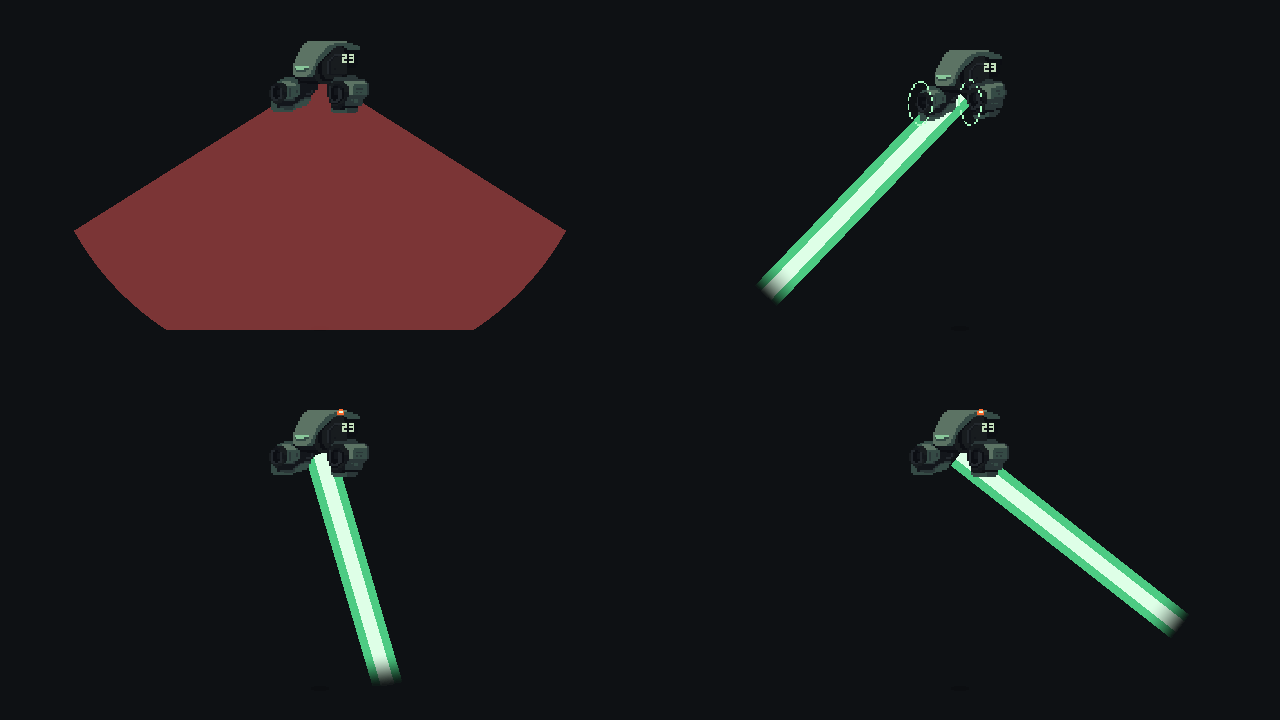
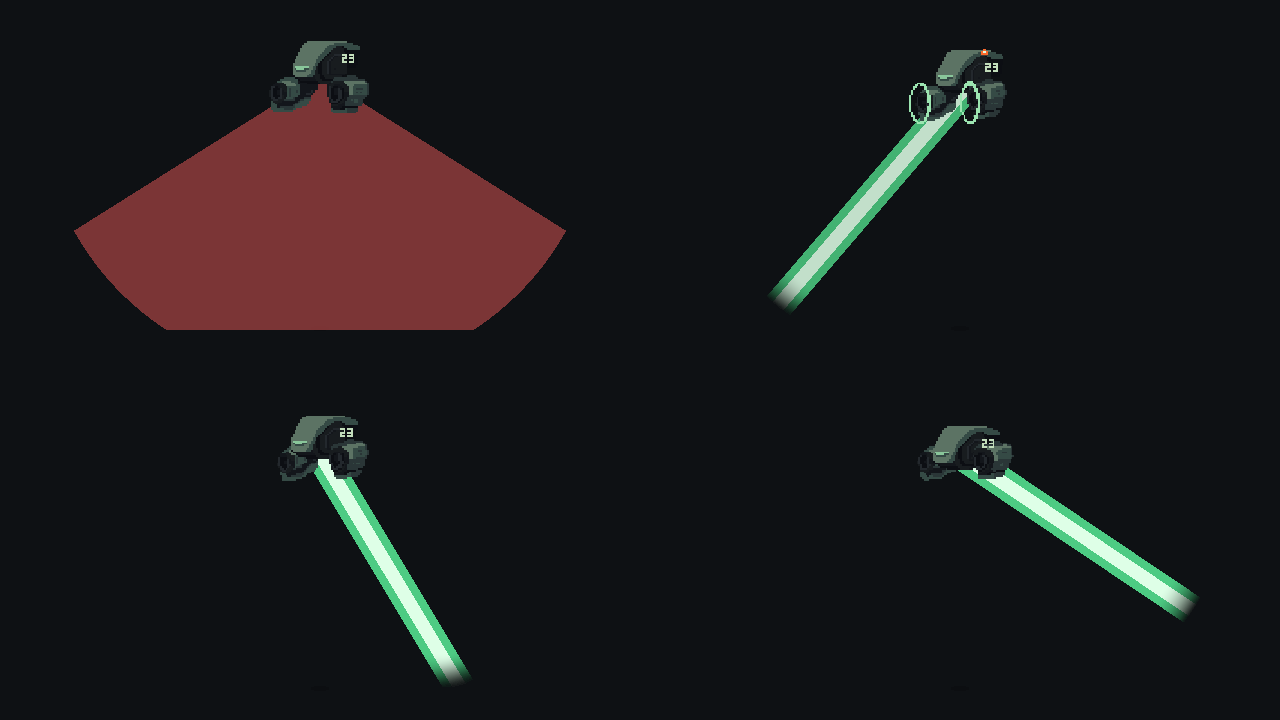
fix: Enemy23

Changed region(s): [[0.2188, 0.55, 0.375, 0.9472], [0.7188, 0.55, 0.9375, 0.8861], [0.5938, 0.0611, 0.7812, 0.4278]]

diff --git a/Tools~/CTJ/VerifyBoss23FanLaser.cs b/Tools~/CTJ/VerifyBoss23FanLaser.cs
@@ -52,6 +52,7 @@ public static class VerifyBoss23FanLaser
         Check(markings == 10, "Missing animated marking tracks");
         return new { markings, shaderErrors = false, warningValid = true, bodyOrder = body.sortingOrder, beamOrder = beam.sortingOrder,
             width = laser.FindProperty("width").floatValue, maxSpeed = laser.FindProperty("maxSpeed").floatValue,
+            bodyOverlapDistance = laser.FindProperty("bodyOverlapDistance").floatValue,
             minSpeed = laser.FindProperty("minSpeed").floatValue, fadeOut = laser.FindProperty("fadeOutDuration").floatValue,
             shakeAmplitude = new SerializedObject(shake).FindProperty("amplitude").floatValue, prefabActive = root.activeSelf,
             prefabScale = root.transform.localScale.ToString() };
@@ -59,8 +60,9 @@ public static class VerifyBoss23FanLaser
 
     public static object Enter()
     {
-        Check(!EditorApplication.isPlaying && !EditorApplication.isCompiling && !SceneManager.GetActiveScene().isDirty &&
-            SceneManager.GetActiveScene().path == "Assets/_Scenes/Test/EnemyTestScene.unity", "Use saved EnemyTestScene in Edit Mode");
+        // 씬 전환이나 저장 없이 현재 편집 상태의 Play Mode 사본에서만 테스트합니다.
+        Check(!EditorApplication.isPlaying && !EditorApplication.isCompiling &&
+            SceneManager.GetActiveScene().path == "Assets/_Scenes/Test/EnemyTestScene.unity", "Use EnemyTestScene in Edit Mode");
         EditorApplication.EnterPlaymode();
         return "Starting fan laser verification";
     }
@@ -95,7 +97,7 @@ public static class VerifyBoss23FanLaser
         object gradient = null;
         try
         {
-            for (int scenario = 0; scenario < 6; scenario++)
+            for (int scenario = 0; scenario < 7; scenario++)
             {
                 player = new GameObject("Fan laser player probe");
                 var body = player.AddComponent<BoxCollider2D>();
@@ -103,7 +105,7 @@ public static class VerifyBoss23FanLaser
                 var probe = player.AddComponent<EnemyDamageProbe>();
                 player.transform.position = Vector3.right * (scenario == 0 ? -7.5f : scenario == 1 ? 7.5f : 0f);
                 root = Object.Instantiate(prefab, Vector3.up * 1.05f, Quaternion.identity);
-                root.SetActive(true); // The user's prefab is intentionally disabled.
+                root.SetActive(true); // 검증 인스턴스만 활성화하며 원본 프리팹의 활성 여부는 보존합니다.
                 var boss = root.GetComponent<ProductionControlDrone>();
                 var laser = root.GetComponentInChildren<DroneDownwardLaserSkill>();
                 var shake = laser.GetComponent<BossLaserShake>();
@@ -141,6 +143,13 @@ public static class VerifyBoss23FanLaser
                 Check(points.All(p => p.x >= safeLeft - 0.001f && p.x <= safeRight + 0.001f && p.y >= arena.FloorY - 0.001f),
                     "Warning enters safe strips or below floor");
                 Vector2 origin = (Vector2)typeof(DroneDownwardLaserSkill).GetField("_origin", Private).GetValue(laser);
+                float overlap = (float)typeof(DroneDownwardLaserSkill).GetField("_bodyOverlap", Private).GetValue(laser);
+                if (scenario == 6)
+                {
+                    body.size = new Vector2(0.2f, 0.2f); body.offset = Vector2.zero;
+                    player.transform.position = origin + Vector2.down * 0.15f;
+                    Physics2D.SyncTransforms();
+                }
                 if (scenario == 0) Capture(camera, sheet, 0);
                 object motion = CheckMotion(laser, beam);
                 await Until(() => beam.enabled, 2f);
@@ -156,10 +165,11 @@ public static class VerifyBoss23FanLaser
                     Vector2 direction = new Vector2(Mathf.Sin(-10f * Mathf.Deg2Rad), -Mathf.Cos(-10f * Mathf.Deg2Rad));
                     player.transform.position = origin + direction * 3f - Vector2.up * 0.675f;
                     Physics2D.SyncTransforms();
-                    typeof(DroneDownwardLaserSkill).GetField("_beamStartedAt", Private).SetValue(laser, Time.time - 0.8f);
+                    float skip = duration * 0.65f;
+                    typeof(DroneDownwardLaserSkill).GetField("_beamStartedAt", Private).SetValue(laser, Time.time - skip);
                     laser.UpdateSkill();
                     Check(probe.ReceivedHitCount == 1, "Angular sweep skipped a target on a late frame");
-                    startedAt = Time.time - 0.8f;
+                    startedAt = Time.time - skip;
                 }
                 if (scenario == 5)
                 {
@@ -201,15 +211,23 @@ public static class VerifyBoss23FanLaser
                         var block = new MaterialPropertyBlock(); beam.GetPropertyBlock(block);
                         Vector2 locked = block.GetVector("_BeamOrigin");
                         Check(Vector2.Distance(locked, origin) < 0.001f, "Laser pivot followed the player");
+                        Vector2 direction = block.GetVector("_BeamDirection");
+                        Vector2 start = beam.transform.TransformPoint(new Vector3(sprite.center.x, sprite.max.y));
+                        Vector2 end = beam.transform.TransformPoint(new Vector3(sprite.center.x, sprite.min.y));
+                        float fullLength = block.GetFloat("_BeamLength");
+                        Check(Mathf.Abs(Vector2.Dot(start - origin, direction) + overlap) < 0.001f,
+                            "Laser root does not overlap the body by configured world distance");
+                        Check(Mathf.Abs(Vector2.Dot(end - origin, direction) - fullLength) < 0.001f,
+                            "Body overlap changed laser reach");
                         float expectedWidth = scenario == 4 ? 1.4f : 0.8f;
                         Check(Mathf.Abs(beam.transform.TransformVector(Vector3.right * beam.sprite.bounds.size.x).magnitude - expectedWidth) < 0.001f,
                             "Beam world width differs from configured width");
                         if (scenario == 0)
                         {
                             float elapsed = Time.time - firedAt;
-                            if (!leftCapture && elapsed >= 0.1f) { Capture(camera, sheet, 1); leftCapture = true; }
-                            if (!centerCapture && elapsed >= 0.6f) { Capture(camera, sheet, 2); centerCapture = true; }
-                            if (!rightCapture && elapsed >= 1.1f) { Capture(camera, sheet, 3); rightCapture = true; }
+                            if (!leftCapture && elapsed >= duration * 0.08f) { Capture(camera, sheet, 1); leftCapture = true; }
+                            if (!centerCapture && elapsed >= duration * 0.5f) { Capture(camera, sheet, 2); centerCapture = true; }
+                            if (!rightCapture && elapsed >= duration * 0.9f) { Capture(camera, sheet, 3); rightCapture = true; }
                         }
                     }
                     await Awaitable.NextFrameAsync();
@@ -293,7 +311,8 @@ public static class VerifyBoss23FanLaser
             beam.gameObject.layer = 30; beam.enabled = true;
             camera.cullingMask = 1 << 30; camera.backgroundColor = Color.clear;
             camera.orthographicSize = 4.5f; camera.transform.position = new Vector3(origin.x, (origin.y + floor) * 0.5f, -10f);
-            typeof(DroneDownwardLaserSkill).GetMethod("UpdateBeam", Private).Invoke(laser, new object[] { 0f, 0.4f });
+            float duration = (float)typeof(DroneDownwardLaserSkill).GetField("_sweepDuration", Private).GetValue(laser);
+            typeof(DroneDownwardLaserSkill).GetMethod("UpdateBeam", Private).Invoke(laser, new object[] { 0f, duration * 0.5f });
             camera.targetTexture = rt; camera.Render(); RenderTexture.active = rt;
             texture.ReadPixels(new Rect(0, 0, 512, 512), 0, 0); texture.Apply();
             float near = Alpha(new Vector2(origin.x, floor + 0.1f));

diff --git a/Assets/_Scripts/Agent/Enemies/Skills/DroneDownwardLaserSkill.cs b/Assets/_Scripts/Agent/Enemies/Skills/DroneDownwardLaserSkill.cs
@@ -17,13 +17,15 @@ namespace _Scripts.Agent.Enemies.Skills
         [SerializeField, Min(0.1f)] private float length = 7.5f;
         [Tooltip("월드 유닛 기준 전체 두께입니다. 빔 표시, 경고, 피해 판정에 함께 적용됩니다.")]
         [SerializeField, Min(0.1f)] private float width = 0.8f;
+        [Tooltip("빔 표시만 원점 뒤로 연장해 몸체 안에 겹치는 거리입니다. 월드 유닛이며 피해 판정과 끝점은 유지합니다.")]
+        [SerializeField, Min(0f)] private float bodyOverlapDistance = 0.35f;
         [SerializeField, Min(0f)] private float damage = 18f;
         [Tooltip("발사 시작 시 회전 속도입니다. 도/초 단위이며 Min Speed까지 부드럽게 감속합니다.")]
-        [SerializeField, Min(0.01f)] private float maxSpeed = 140f;
+        [SerializeField, Min(0.01f)] private float maxSpeed = 600f;
         [Tooltip("회전이 끝날 때의 속도입니다. 도/초 단위이며 전체 회전 시간은 두 속도로 계산합니다.")]
         [SerializeField, Min(0.01f)] private float minSpeed = 50f;
         [Tooltip("회전을 끝낸 뒤 빔이 사라지는 시간입니다. 이 구간에는 추가 피해를 주지 않습니다.")]
-        [SerializeField, Min(0f)] private float fadeOutDuration = 0.08f;
+        [SerializeField, Min(0f)] private float fadeOutDuration = 0.14f;
         [Tooltip("수직 아래에서 좌우로 각각 회전할 각도입니다. 안전 폭을 지키도록 필요하면 줄입니다.")]
         [SerializeField, Range(0f, 85f)] private float sweepHalfAngle = 60f;
         [Tooltip("아레나 양 끝에 남겨 둘 안전 폭입니다. 레이저 두께까지 포함해 보호합니다.")]
@@ -45,7 +47,7 @@ namespace _Scripts.Agent.Enemies.Skills
         private MaterialPropertyBlock _beamProperties;
         private ContactFilter2D _terrainFilter;
         private Vector2 _origin;
-        private float _floorY, _safeLeft, _safeRight, _halfAngle, _radius, _beamWidth;
+        private float _floorY, _safeLeft, _safeRight, _halfAngle, _radius, _beamWidth, _bodyOverlap;
         private Bounds _warningBounds;
         private bool _didHit;
         private float _beamStartedAt, _previousAngle;
@@ -89,6 +91,7 @@ namespace _Scripts.Agent.Enemies.Skills
             _safeRight = drone.Arena.LaserRight.x - Mathf.Max(0f, safeEdgeWidth);
             _radius = Mathf.Max(0.1f, length);
             _beamWidth = Mathf.Max(0.1f, width);
+            _bodyOverlap = Mathf.Max(0f, bodyOverlapDistance);
             float reach = Mathf.Max(0f, Mathf.Min(_origin.x - _safeLeft, _safeRight - _origin.x) - _beamWidth * 0.5f);
             float safeAngle = Mathf.Asin(Mathf.Clamp01(reach / _radius)) * Mathf.Rad2Deg;
             _halfAngle = Mathf.Min(Mathf.Clamp(sweepHalfAngle, 0f, 85f), safeAngle);
@@ -189,11 +192,12 @@ namespace _Scripts.Agent.Enemies.Skills
         {
             Vector2 direction = Direction(angle);
             float distance = BeamLength(direction);
-            beam.transform.position = _origin + direction * (distance * 0.5f);
+            // 시작부만 몸체 안으로 연장합니다. 회전 원점과 바닥 쪽 끝점은 그대로 둡니다.
+            beam.transform.position = _origin + direction * ((distance - _bodyOverlap) * 0.5f);
             beam.transform.rotation = Quaternion.Euler(0f, 0f, angle);
             Vector3 parentScale = beam.transform.parent != null ? beam.transform.parent.lossyScale : Vector3.one;
             beam.transform.localScale = new Vector3(_beamWidth / beam.sprite.bounds.size.x / Mathf.Max(0.0001f, Mathf.Abs(parentScale.x)),
-                distance / beam.sprite.bounds.size.y / Mathf.Max(0.0001f, Mathf.Abs(parentScale.y)), 1f);
+                (distance + _bodyOverlap) / beam.sprite.bounds.size.y / Mathf.Max(0.0001f, Mathf.Abs(parentScale.y)), 1f);
             Color tint = beam.color;
             float fade = elapsed <= _sweepDuration ? 1f : fadeOutDuration <= 0f ? 0f :
                 1f - Mathf.SmoothStep(0f, 1f, (elapsed - _sweepDuration) / fadeOutDuration);
@@ -232,7 +236,8 @@ namespace _Scripts.Agent.Enemies.Skills
             {
                 Vector2 direction = Direction(Mathf.Lerp(-_halfAngle, _halfAngle, i / (float)WarningSegments));
                 Vector2 side = new Vector2(-direction.y, direction.x) * (_beamWidth * 0.5f);
-                Vector2 end = _origin + direction * BeamLength(direction);
+                float distance = BeamLength(direction);
+                Vector2 end = _origin + direction * distance;
                 _warningCloud.Add(_origin + side); _warningCloud.Add(_origin - side);
                 _warningCloud.Add(end + side); _warningCloud.Add(end - side);
             }

diff --git a/Tools~/CTJ/InspectBoss23LaserRoot.cs b/Tools~/CTJ/InspectBoss23LaserRoot.cs
@@ -1,0 +1,75 @@
+using System;
+using System.Linq;
+using System.Reflection;
+using _Scripts.Agent.Enemies.Skills;
+using UnityEditor;
+using UnityEngine;
+using Object = UnityEngine.Object;
+
+public static class InspectBoss23LaserRoot
+{
+    private const BindingFlags Private = BindingFlags.Instance | BindingFlags.NonPublic;
+    public static object Run()
+    {
+        if (EditorApplication.isPlaying || EditorApplication.isCompiling) throw new Exception("Use Edit Mode");
+        var root = PrefabUtility.LoadPrefabContents("Assets/_Prefabs/Enemies/Bosses/Enemy23/Boss23_ProductionControlDrone.prefab");
+        var cameraRoot = new GameObject("Laser root preview camera");
+        var sheet = new Texture2D(1536, 1536, TextureFormat.RGBA32, false);
+        try
+        {
+            root.SetActive(true);
+            UnityEngine.SceneManagement.SceneManager.MoveGameObjectToScene(cameraRoot, root.scene);
+            var camera = cameraRoot.AddComponent<Camera>();
+            camera.enabled = false; camera.scene = root.scene;
+            camera.orthographic = true; camera.orthographicSize = 1.6f;
+            camera.transform.position = new Vector3(0f, -0.15f, -10f);
+            camera.clearFlags = CameraClearFlags.SolidColor; camera.backgroundColor = new Color(0.055f, 0.065f, 0.08f, 0f);
+            var animator = root.GetComponentInChildren<Animator>(true);
+            var clip = animator.runtimeAnimatorController.animationClips.Single(c => c.name.EndsWith("_Laser"));
+            var laser = root.GetComponentInChildren<DroneDownwardLaserSkill>(true);
+            var data = new SerializedObject(laser);
+            var beam = (SpriteRenderer)data.FindProperty("beam").objectReferenceValue;
+            var muzzle = (Transform)data.FindProperty("muzzle").objectReferenceValue;
+            Set("_origin", (Vector2)muzzle.position); Set("_floorY", -6.5f);
+            Set("_radius", 7.5f); Set("_beamWidth", data.FindProperty("width").floatValue);
+            Set("_bodyOverlap", data.FindProperty("bodyOverlapDistance").floatValue);
+            Set("_beamProperties", new MaterialPropertyBlock()); Set("_sweepDuration", 1f);
+            beam.enabled = true;
+            var update = typeof(DroneDownwardLaserSkill).GetMethod("UpdateBeam", Private);
+            float[] angles = { -57.85f, 0f, 57.85f };
+            float minConnectionAlpha = 1f;
+            for (int row = 0; row < 3; row++)
+            {
+                clip.SampleAnimation(animator.gameObject, clip.length * row * 0.5f);
+                for (int i = 0; i < angles.Length; i++)
+                {
+                    update.Invoke(laser, new object[] { angles[i], 0.4f });
+                    var rt = RenderTexture.GetTemporary(512, 512, 24, RenderTextureFormat.ARGB32);
+                    var previous = RenderTexture.active;
+                    try
+                    {
+                        camera.targetTexture = rt; camera.Render(); RenderTexture.active = rt;
+                        sheet.ReadPixels(new Rect(0, 0, 512, 512), i * 512, (2 - row) * 512); sheet.Apply();
+                        float radians = angles[i] * Mathf.Deg2Rad;
+                        Vector2 direction = new Vector2(Mathf.Sin(radians), -Mathf.Cos(radians));
+                        for (int sample = 0; sample <= 40; sample++)
+                        {
+                            Vector3 world = muzzle.position + (Vector3)(direction * (sample * 0.025f));
+                            Vector3 uv = camera.WorldToViewportPoint(world);
+                            float alpha = sheet.GetPixel(i * 512 + Mathf.Clamp((int)(uv.x * 512), 0, 511),
+                                (2 - row) * 512 + Mathf.Clamp((int)(uv.y * 512), 0, 511)).a;
+                            minConnectionAlpha = Mathf.Min(minConnectionAlpha, alpha);
+                        }
+                    }
+                    finally { camera.targetTexture = null; RenderTexture.active = previous; RenderTexture.ReleaseTemporary(rt); }
+                }
+            }
+            if (minConnectionAlpha < 0.8f) throw new Exception("Transparent gap in body/laser connection: " + minConnectionAlpha);
+            string path = "Tools~/CTJ/Boss23LaserRootPreview.png";
+            System.IO.File.WriteAllBytes(path, sheet.EncodeToPNG());
+            return new { preview = path, muzzle = muzzle.position.ToString(), frames = 3, angles = 3, minConnectionAlpha };
+            void Set(string field, object value) => typeof(DroneDownwardLaserSkill).GetField(field, Private).SetValue(laser, value);
+        }
+        finally { Object.DestroyImmediate(cameraRoot); Object.DestroyImmediate(sheet); PrefabUtility.UnloadPrefabContents(root); }
+    }
+}

diff --git a/Tools~/CTJ/SetupBoss23FanLaser.cs b/Tools~/CTJ/SetupBoss23FanLaser.cs
@@ -56,9 +56,10 @@ public static class SetupBoss23FanLaser
             var laser = root.GetComponentInChildren<DroneDownwardLaserSkill>(true);
             var laserData = new SerializedObject(laser);
             laserData.FindProperty("length").floatValue = 7.5f;
-            laserData.FindProperty("maxSpeed").floatValue = 140f;
+            laserData.FindProperty("maxSpeed").floatValue = 600f;
+            laserData.FindProperty("bodyOverlapDistance").floatValue = 0.35f;
             laserData.FindProperty("minSpeed").floatValue = 50f;
-            laserData.FindProperty("fadeOutDuration").floatValue = 0.08f;
+            laserData.FindProperty("fadeOutDuration").floatValue = 0.14f;
             laserData.FindProperty("sweepHalfAngle").floatValue = 60f;
             laserData.FindProperty("safeEdgeWidth").floatValue = 1.25f;
             laserData.FindProperty("endFadeDistance").floatValue = 1f;

diff --git a/Tools~/CTJ/Boss23Notes.md b/Tools~/CTJ/Boss23Notes.md
@@ -7,7 +7,7 @@
 | 패턴 | 공격 | 준비 / 쿨타임 / 후딜 |
 |---|---|---|
 | 초반 수평 사격 | 8유닛 범위, 일반탄 14 피해 1발과 고속탄 8 피해 3발 교대 | 0.55초 / 마지막 탄 발사 후 2.4초 / 사격 모션 종료 후 Idle에서 0.8초 |
-| 후반 부채꼴 레이저 | 중앙의 높은 위치에서 최대 길이 7.5유닛·폭 0.8유닛의 한 줄이 140→50도/초로 감속 회전. 한 번 18 피해 | 0.9초 준비 / 약 1.218초 회전 + 0.08초 페이드 / 빔 시작 후 5.5초 쿨타임 / 하강 후 1.2초 |
+| 후반 부채꼴 레이저 | 중앙의 높은 위치에서 최대 길이 7.5유닛·폭 0.8유닛의 한 줄이 600→50도/초로 감속 회전. 한 번 18 피해 | 0.9초 준비 / 약 0.356초 회전 + 0.14초 페이드 / 빔 시작 후 5.5초 쿨타임 / 하강 후 1.2초 |
 | 후반 상향 폭탄 | 수평 6유닛 안의 바닥에 고정된 반경 1.3유닛, 착탄 시 20 피해 | 0.8초 / 발사 후 4.8초 / 하강 후 1.2초 |
 
 체력 50% 이하가 되면 진행 중인 사격과 후딜을 마치고 후반 패턴으로 전환한다. 후반은 레이저를 우선으로 시작하고, 쿨타임과 지형 조건을 충족하는 레이저와 폭탄을 교대한다. 폭탄이 위로 솟을 공간이 있는지 발사 전에 검사한다.
